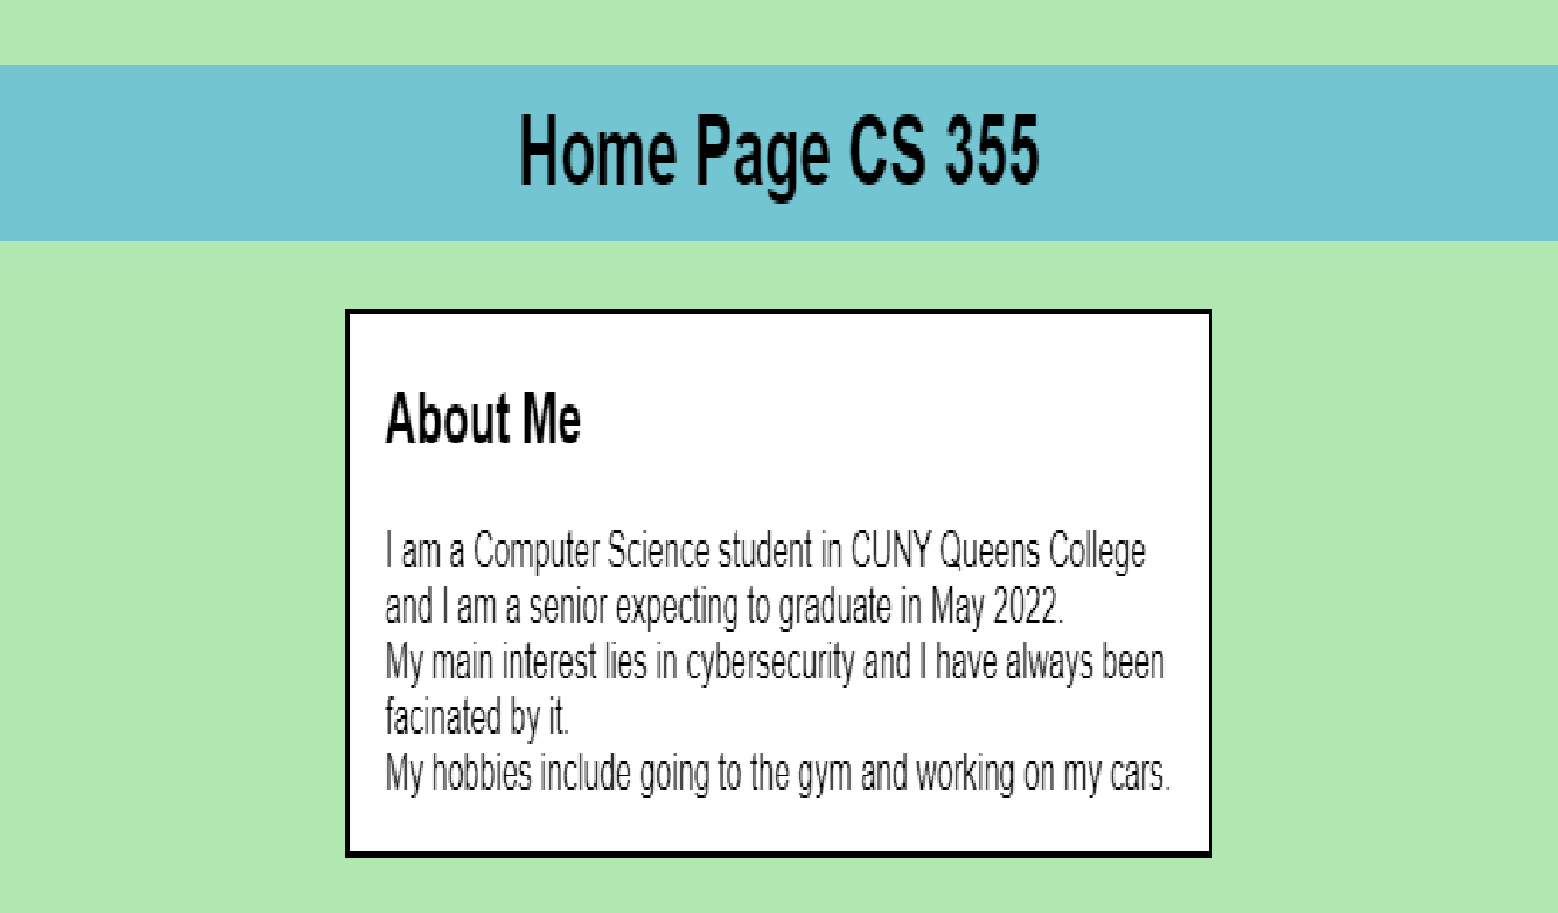
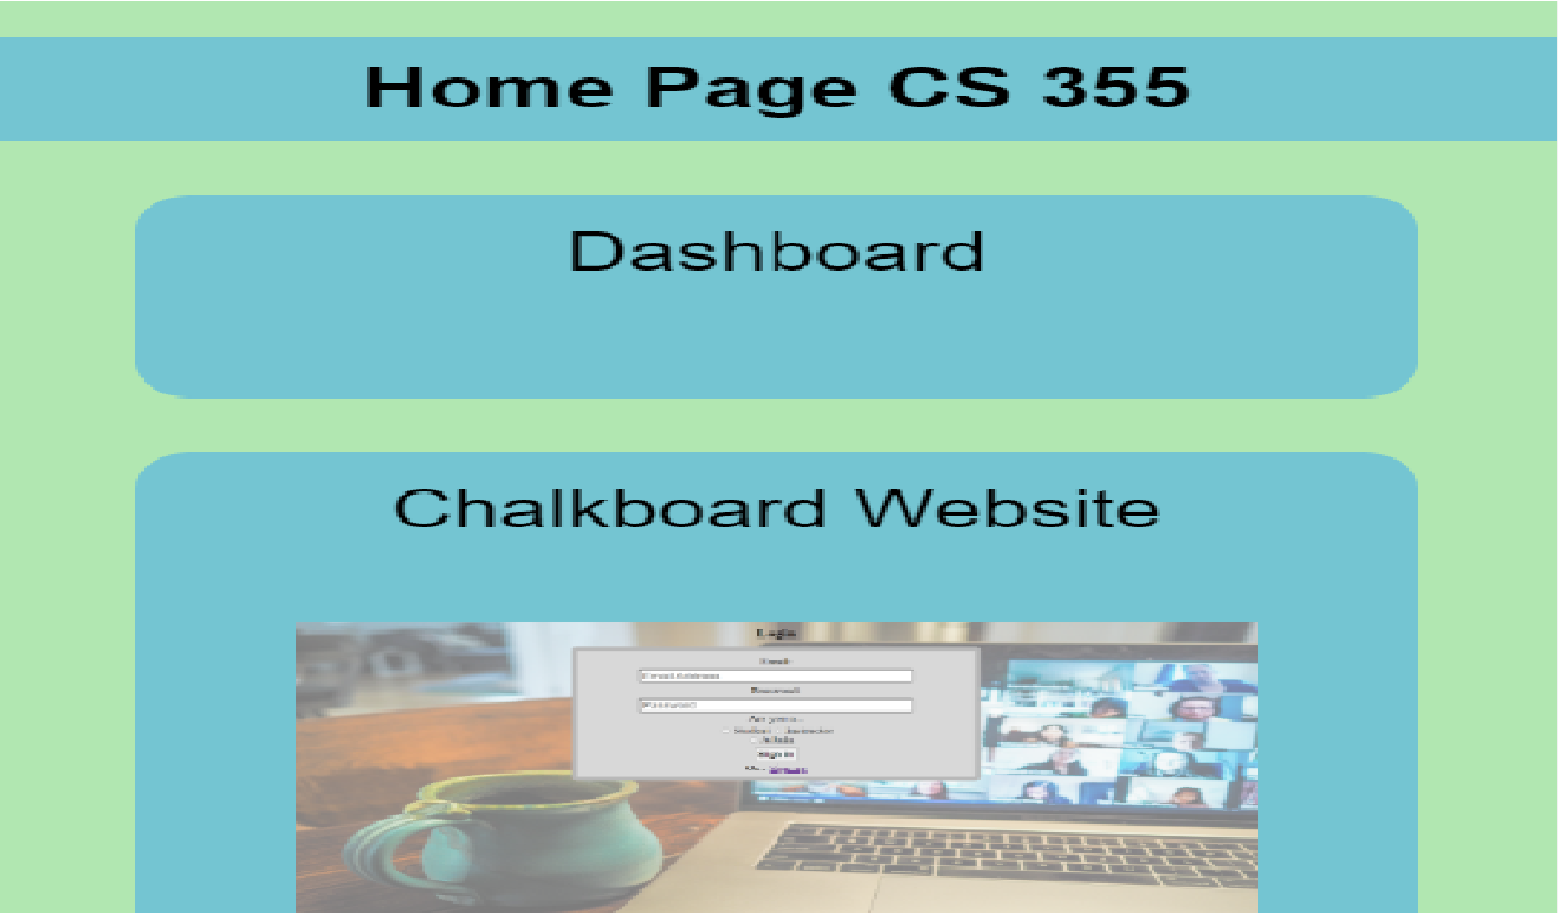
update

diff --git a/index.html b/index.html
@@ -9,15 +9,6 @@
   </head>
   <body>
     <h1>Home Page CS 355</h1>
-    <aside>
-      <h2>About Me</h2>
-      <p>
-        I am a Computer Science student in CUNY Queens College and I am a senior
-        expecting to graduate in May 2022.<br>
-        My main interest lies in cybersecurity and I have always been facinated by it.<br>
-        My hobbies include going to the gym and working on my cars.
-      </p>
-    </aside>
 
     <div class="projectContainer">
       <p class="projectTitle">Dashboard</p>

diff --git a/styles.css b/styles.css
@@ -3,14 +3,6 @@ body {
   padding: 0;
 }
 
-aside {
-  position: fixed;
-  font-family: sans-serif;
-  border: 2px solid black;
-  background-color: white;
-  padding: 0px 20px 0px 20px;
-}
-
 body {
   background-color: rgba(100, 208, 100, 0.5);
 }
@@ -58,12 +50,7 @@ a:hover{
 
 
 @media screen and (max-width: 1400px) {
-  aside {
-    position: relative;
-    margin: auto;
-    width: 50%;
-    font-size: 1em;
-  }
+
   .projectContainer {
     width: 80vw;
   }
